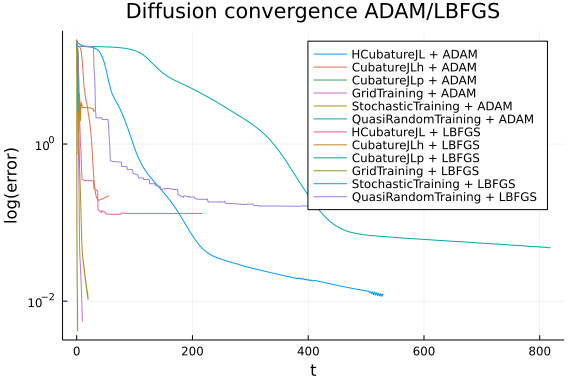
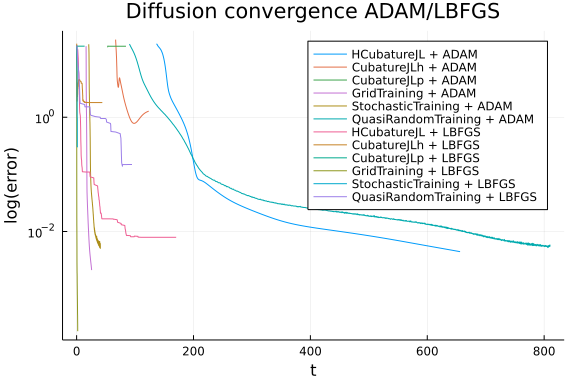
Automatic build\nPublished by build of: https://github.com/SciML/SciMLBenchmarks.jl/commit/61c047455ef7845709acad38f267d75462b74631

diff --git a/markdown/PINNErrorsVsTime/diffusion_et.md b/markdown/PINNErrorsVsTime/diffusion_et.md
@@ -47,7 +47,7 @@ function diffusion(strategy, minimizer, maxIters)
     indvars = [x,t]
     depvars = [u(x,t)]
 
-    chain = Lux.Chain(Lux.Dense(2,10,Lux.σ),Lux.Dense(10,10,Lux.σ),Lux.Dense(10,1))
+    chain = Lux.Chain(Lux.Dense(2,10,tanh),Lux.Dense(10,10,tanh),Lux.Dense(10,1))
 
     losses = []
     error = []
@@ -241,7 +241,7 @@ Environment:
 Package Information:
 
 ```
-      Status `/cache/build/exclusive-amdci1-0/julialang/scimlbenchmarks-dot-jl/benchmarks/PINNErrorsVsTime/Project.toml`
+      Status `/cache/build/exclusive-amdci3-0/julialang/scimlbenchmarks-dot-jl/benchmarks/PINNErrorsVsTime/Project.toml`
   [de52edbc] Integrals v3.1.1
   [e00cd5f1] IntegralsCuba v0.2.0
   [c31f79ba] IntegralsCubature v0.2.0
@@ -260,7 +260,7 @@ Package Information:
 And the full manifest:
 
 ```
-      Status `/cache/build/exclusive-amdci1-0/julialang/scimlbenchmarks-dot-jl/benchmarks/PINNErrorsVsTime/Manifest.toml`
+      Status `/cache/build/exclusive-amdci3-0/julialang/scimlbenchmarks-dot-jl/benchmarks/PINNErrorsVsTime/Manifest.toml`
   [c3fe647b] AbstractAlgebra v0.27.2
   [621f4979] AbstractFFTs v1.2.1
   [1520ce14] AbstractTrees v0.4.2
